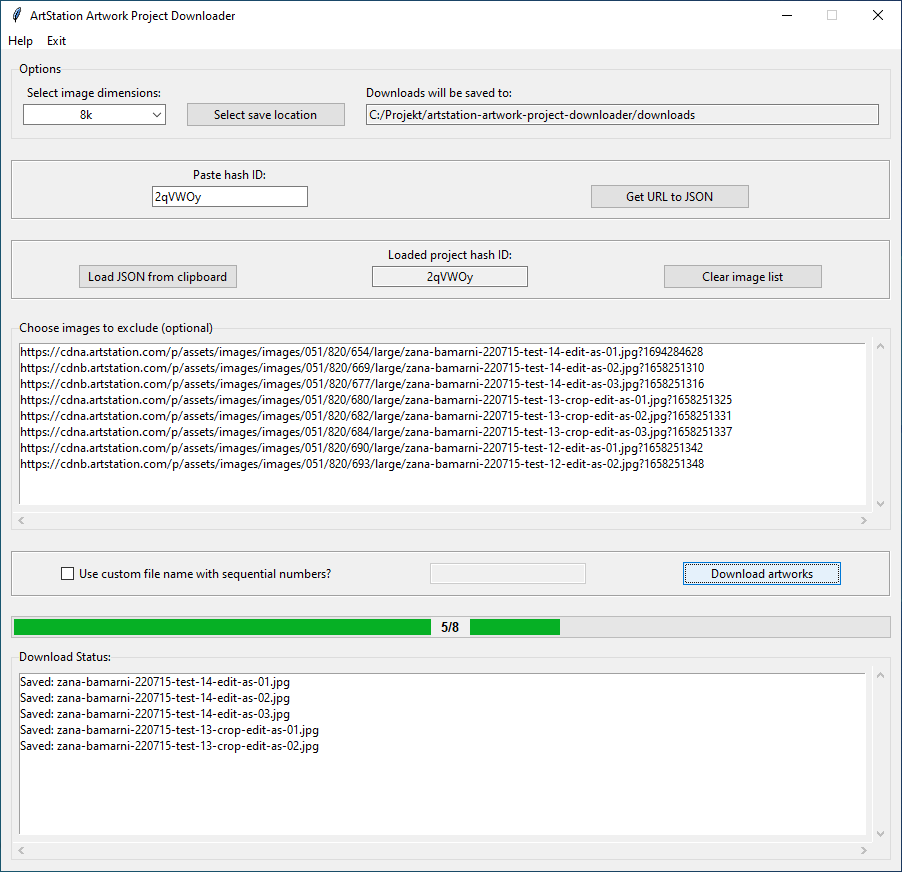
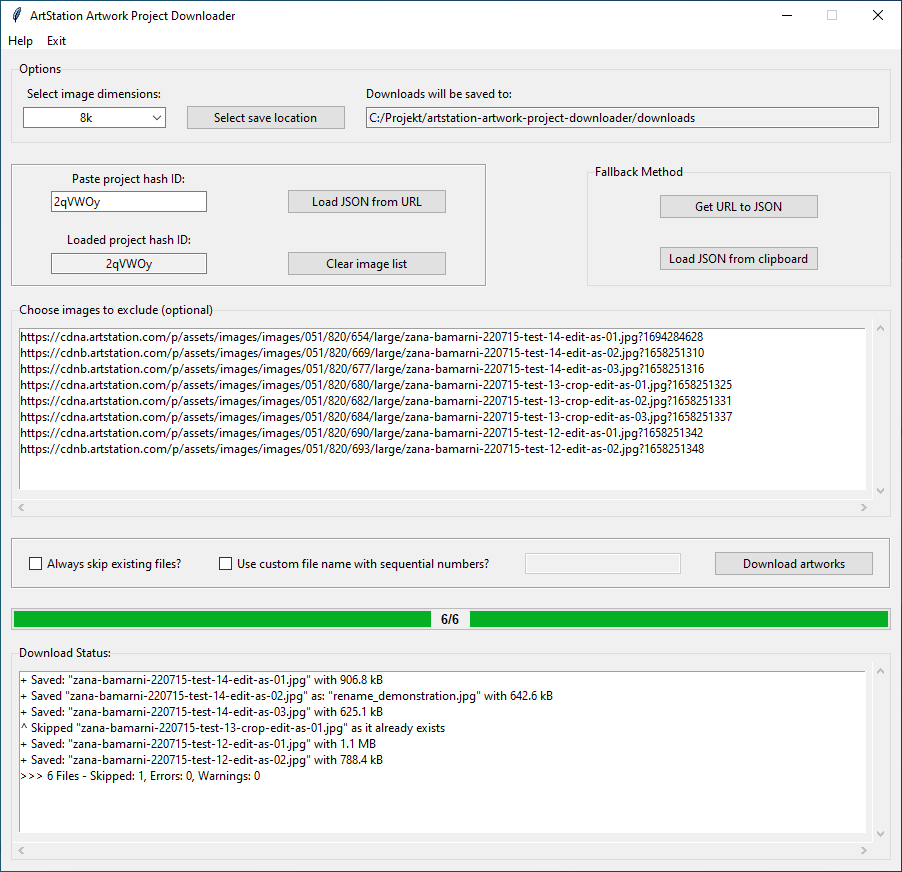
Update README and preview image

diff --git a/README.md b/README.md
@@ -8,22 +8,32 @@
 ## Overview
 This is a simple Tkinter GUI application for downloading artwork projects from [ArtStation](https://www.artstation.com/). It was initially written as an exercise in webscraping and creating GUI applications with Tkinter.
 
-## Features
 While there exist other more sophisticated tools with support for many more image hosting sites (e.g. [gallery-dl](https://github.com/mikf/gallery-dl)), at the time of writing none allowed for the **selection of output image size** in an easy to use GUI application.
 
+## Features
+
+- Choose the image dimensions from the preselected list provided by ArtStation
+- Get a list of artworks featured on a project page
+- Exclude images from download by clicking on them
+- Specify a custom file name (it will be numbered sequentially)
+- Option to skip or rename a file if one with the same name already exists in the specified download directory
+- Alternatively, skip the download of all files that already exist
+- Download results will be displayed for each file
+
+## How to use:
+
 > [!WARNING]
-> Repeated downloads of a large number of files in too short amount of time might cause you to be IP banned from ArtStation. Be careful to not overdo it!
+> Repeated downloads of a large number of files in too short amount of time might cause you to be IP banned from ArtStation. Be careful not to overdo it!
 
 ![GUI preview](preview.png)
 
-### How to use:
+1. Select image dimensions (small, medium, large, 4k, 8k)
 1. Select target directory to download images to
-2. Select image dimensions (small, medium, large, 4k, 8k)
-3. Paste hash ID (found after artstation.com/artwork/*hashid*)
-4. Visit resulting URL with your browser, then copy it's JSON content and load it with the corresponding button into the app
-5. (Optional) Select images that are to be excluded from download
-6. (Optional) Enter a custom file name (files will be numbered sequentually)
-7. Download images
+1. Paste hash ID (found after artstation.com/artwork/*hashid*)
+1. Load JSON data (use Fallback Method if an error is encountered)
+1. (Optional) Select images that are to be excluded from download
+1. (Optional) Enter a custom file name (files will be numbered sequentually)
+1. Download images
 
 > [!TIP]
 > If `8k` is selected (the default setting), images will always be downloaded at the best possible quality and size, even if the actual image is not available at 8k.
@@ -37,8 +47,8 @@ While there exist other more sophisticated tools with support for many more imag
 6. Execute the main script using `python main.py`
 
 ## Future plans
-- Find a way around the 403 response (Cloudflare) to directly load the JSON content
-- Instead of skipping files with same name, add dialog to allow renaming
+- Should it become clear that there are already many files with the same name, provide the option in the renaming window to skip the remaining duplicate files
+- Add image dimensions to the download log, not just file size
 
 ## Disclaimer
 This program is intended for personal, non-profit use only and is not optimized for large-scale, high-volume scraping of files. Please source your data for training AI models ethically. Publicly available datasets for educational experimentation with machine learning and deep learning can be found on [Kaggle](https://www.kaggle.com/datasets).
